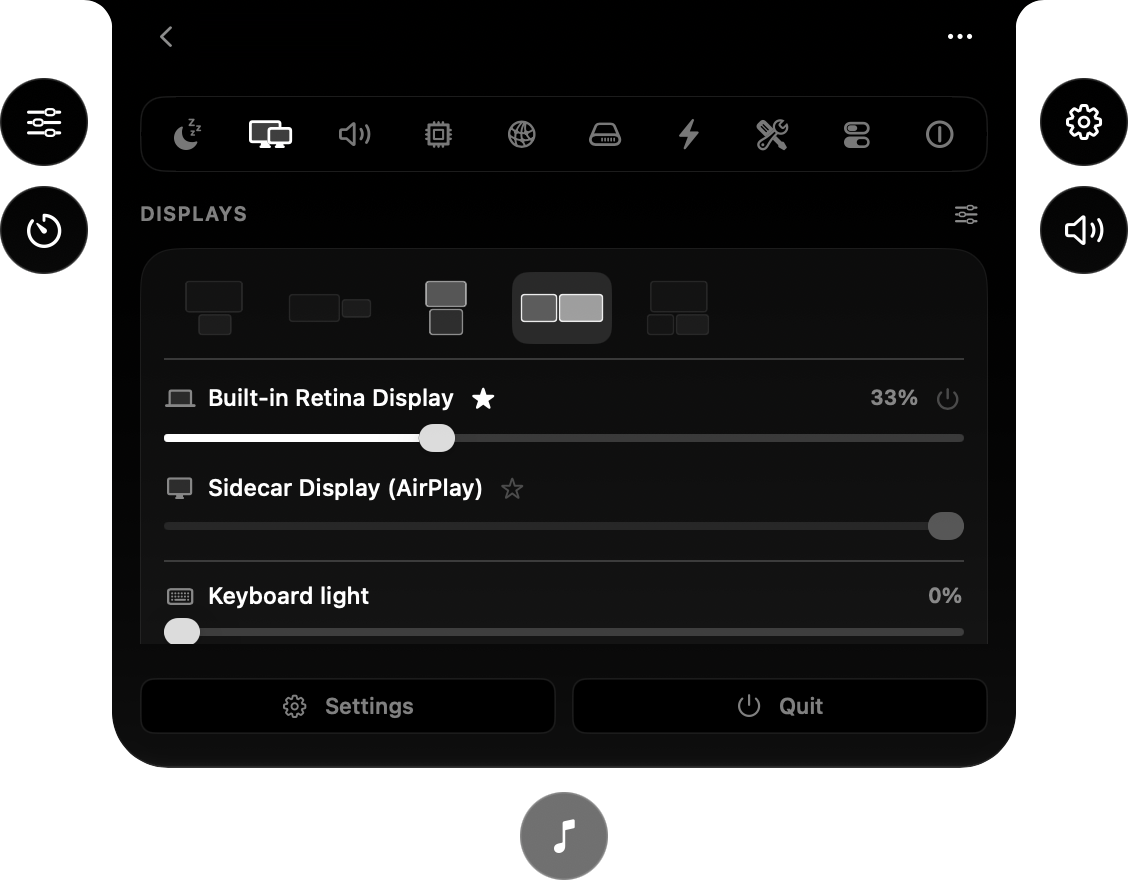
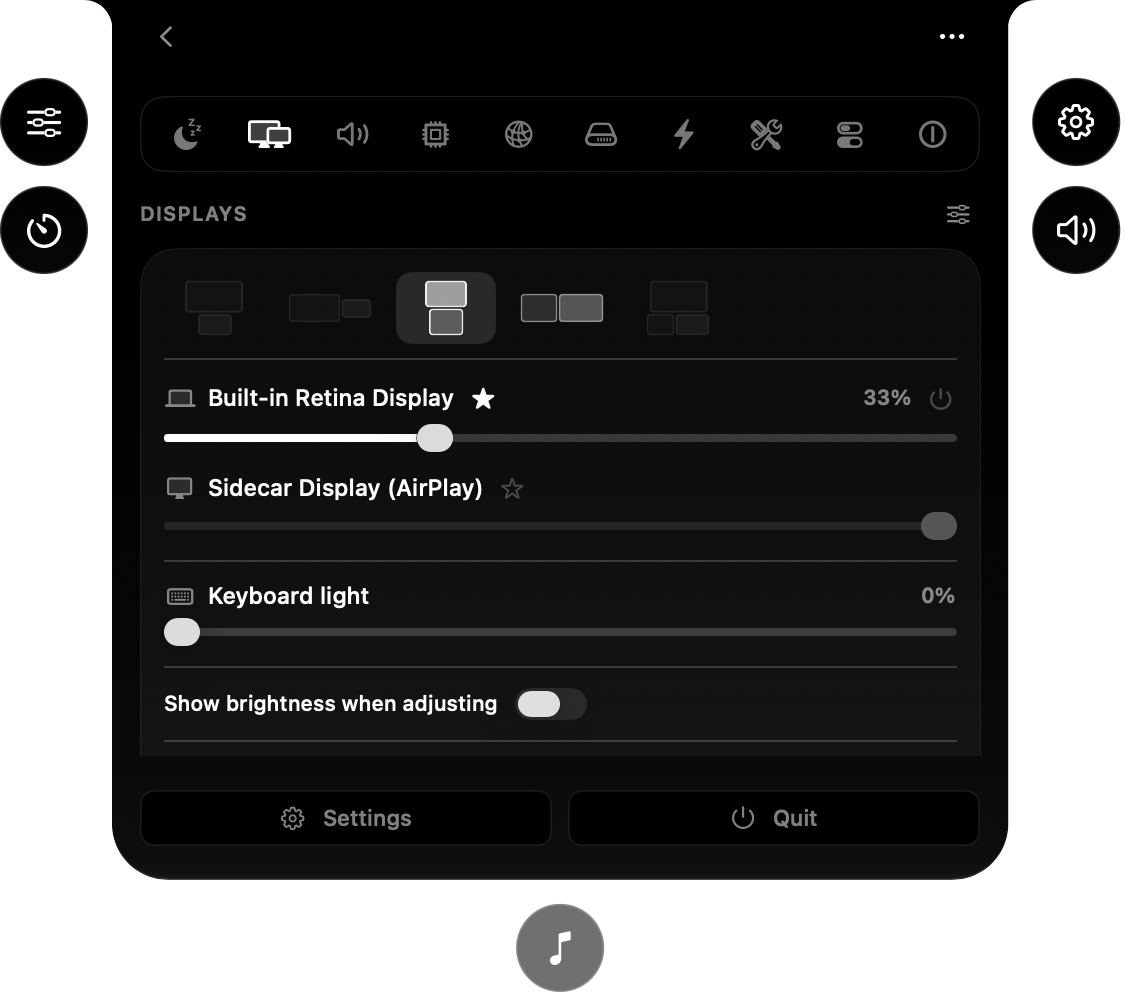
docs: use a taller Dynamic Island screenshot that matches the panel

diff --git a/README.md b/README.md
@@ -18,7 +18,7 @@ display, and starring a display never changes the arrangement.
 
 <p align="center">
   <img src="docs/images/menu-bar-panel.png" width="340" alt="Vorssaint's Displays section in the menu bar panel with Castling: a strip of saved arrangement thumbnails, a filled star on the main display and a hollow star on a Sidecar display">
-  <img src="docs/images/dynamic-island.png" width="475" alt="The same Displays section inside Vorssaint's Dynamic Island, in dark appearance">
+  <img src="docs/images/dynamic-island.png" width="472" alt="The same Displays section inside Vorssaint's Dynamic Island, in dark appearance">
 </p>
 
 Castling is not affiliated with or endorsed by Vorssaint. See [NOTICE.md](NOTICE.md).
